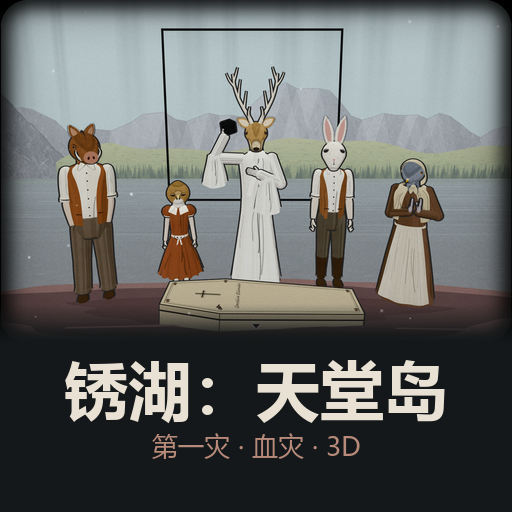
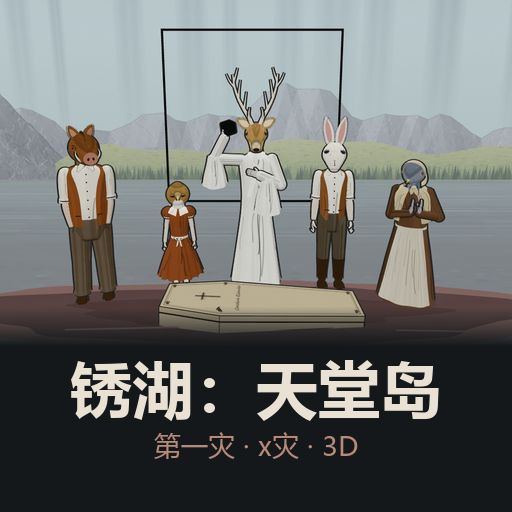
feat(minitool): 图标副标题改成“第一灾 · x灾 · 3D”，新增 make_icon.py
- 以前图标是临时画的，没有脚本；make_icon.py 用记忆场景截图 + 标题 + 副标题生成 512×512 的 icon.png，
  副标题颜色可用环境变量 ICON_SUB_COLOR 指定（红色对照版用原来偏红的肉色 183,138,122，紫色版用 178,142,222）。
- icon.png 换成红色版（和 V1.0.4 对照实验一致）；原图标留在 _old/icon-before-x-purple.png。

diff --git a/dev/minitool/make_icon.py b/dev/minitool/make_icon.py
@@ -1,0 +1,56 @@
+"""生成小红书小工具图标 icon.png（512×512）：上面是记忆场景截图，下面是标题。
+
+2026-10-12：审核疑似“有血”，副标题里的“血灾”改成“x灾”，场景截图换成紫色版。
+用法：
+  python dev/shot.py "index.html?autotest=1" dev/shots/purple/icon_scene.png \
+      --js "document.getElementById('ui').style.display='none'; await RLP.goto('memory'); return 'ok'" --wait 2
+  python dev/minitool/make_icon.py [场景截图] [输出图标]
+"""
+import os, sys
+from PIL import Image, ImageDraw, ImageFont
+
+HERE = os.path.dirname(os.path.abspath(__file__))
+ROOT = os.path.dirname(os.path.dirname(HERE))
+scene_path = sys.argv[1] if len(sys.argv) > 1 else os.path.join(ROOT, 'dev', 'shots', 'purple', 'icon_scene.png')  # 红色对照版：dev/shots/red-x/icon_scene.png
+out_path = sys.argv[2] if len(sys.argv) > 2 else os.path.join(HERE, 'icon.png')
+
+FONT_BOLD = r'C:\Windows\Fonts\msyhbd.ttc'
+FONT_REG = r'C:\Windows\Fonts\msyh.ttc'
+BG = (20, 24, 26)
+TITLE_COLOR = (233, 226, 212)
+# 副标题颜色：默认紫色（紫色版）；红色对照版用环境变量 ICON_SUB_COLOR=183,138,122（原来偏红的肉色）
+SUB_COLOR = tuple(int(x) for x in os.environ.get('ICON_SUB_COLOR', '178,142,222').split(','))
+TITLE = '锈湖：天堂岛'
+SUB = '第一灾 · x灾 · 3D'
+
+S = 512
+SCENE_H = 346
+
+img = Image.new('RGB', (S, S), BG)
+scene = Image.open(scene_path).convert('RGB')
+# 游戏画面 1280×720 里，舞台（带圆角暗角的 4:3 画面）在 x 108..1172
+stage = scene.crop((108, 0, 1172, 720)).resize((S, SCENE_H), Image.LANCZOS)
+img.paste(stage, (0, 0))
+
+# 场景底部 40 行渐变融进面板底色
+px = img.load()
+for y in range(SCENE_H - 40, SCENE_H + 1):
+    k = (y - (SCENE_H - 40)) / 40.0
+    for x in range(S):
+        r, g, b = px[x, y]
+        px[x, y] = (round(r * (1 - k) + BG[0] * k), round(g * (1 - k) + BG[1] * k), round(b * (1 - k) + BG[2] * k))
+
+d = ImageDraw.Draw(img)
+
+
+def centered(text, font, y_center, color):
+    l, t, r, b = d.textbbox((0, 0), text, font=font)
+    x = (S - (r - l)) / 2 - l
+    y = y_center - (t + b) / 2
+    d.text((x, y), text, font=font, fill=color)
+
+
+centered(TITLE, ImageFont.truetype(FONT_BOLD, 62), 391, TITLE_COLOR)
+centered(SUB, ImageFont.truetype(FONT_REG, 27), 446, SUB_COLOR)
+img.save(out_path)
+print('saved', out_path)
